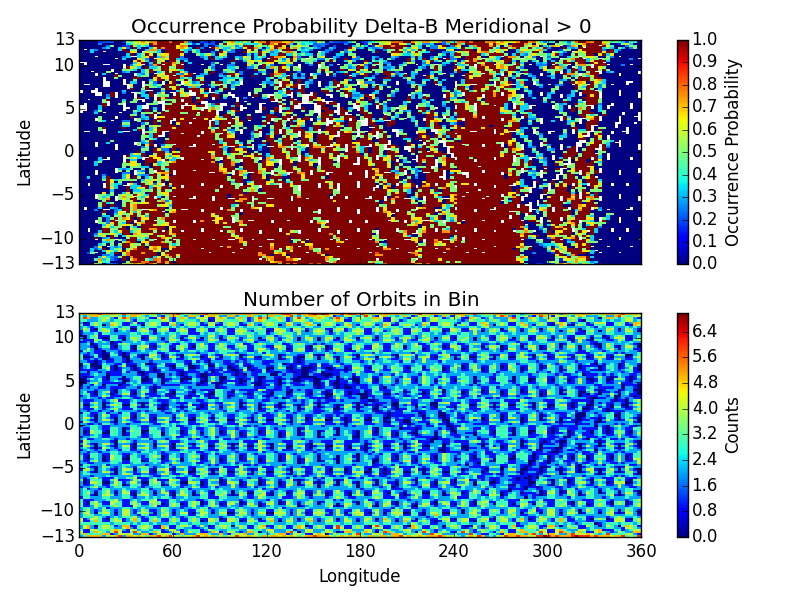
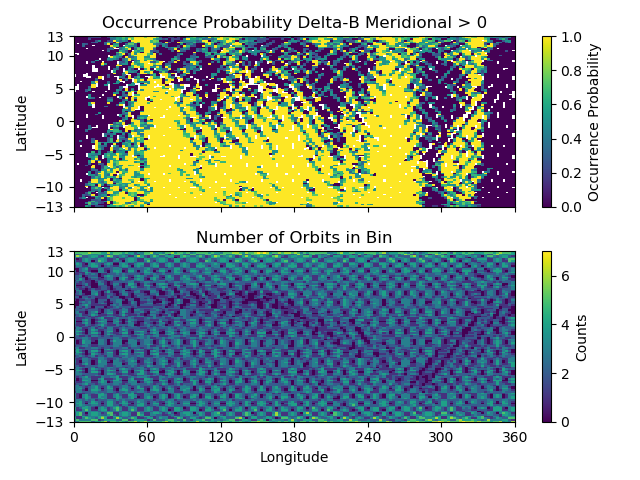
Updates to example.rst - #153

diff --git a/docs/examples.rst b/docs/examples.rst
@@ -13,7 +13,6 @@ How often does a particular thing occur on a orbit-by-orbit basis? Let's find ou
    import os
    import pysat
    import matplotlib.pyplot as plt
-   import pandas as pds
    import numpy as np
 
    # set the directory to save plots to
@@ -21,67 +20,74 @@ How often does a particular thing occur on a orbit-by-orbit basis? Let's find ou
 
    # select vefi dc magnetometer data, use longitude to determine where
    # there are changes in the orbit (local time info not in file)
-   orbit_info = {'index':'longitude', 'kind':'longitude'}
-   vefi = pysat.Instrument(platform='cnofs', name='vefi', tag='dc_b', 
+   orbit_info = {'index': 'longitude', 'kind': 'longitude'}
+   vefi = pysat.Instrument(platform='cnofs', name='vefi', tag='dc_b',
                            clean_level=None, orbit_info=orbit_info)
 
    # define function to remove flagged values
    def filter_vefi(inst):
-       idx, = np.where(vefi['B_flag']==0)
-       vefi.data = vefi.data.iloc[idx]
+       idx, = np.where(inst['B_flag'] == 0)
+       inst.data = inst.data.iloc[idx]
        return
-   # attach function to vefi 
-   vefi.custom.add(filter_vefi,'modify')
-   # set limits on dates analysis will cover, inclusive
-   start = pds.datetime(2010,5,9)
-   stop = pds.datetime(2010,5,15)
 
-   # if there is no vefi dc magnetometer data on your system 
+   # attach function to vefi
+   vefi.custom.add(filter_vefi, 'modify')
+
+   # set limits on dates analysis will cover, inclusive
+   start = pysat.datetime(2010, 5, 9)
+   stop = pysat.datetime(2010, 5, 15)
+
+   # if there is no vefi dc magnetometer data on your system
    # run command below
    # where start and stop are pandas datetimes (from above)
-   # pysat will automatically register the addition of this data at the end    
-   # of download
+   # pysat will automatically register the addition of this data
+   # at the end of download
    vefi.download(start, stop)
 
-   # leave bounds unassigned to cover the whole dataset 
-   vefi.bounds = (start,stop)
+   # leave bounds unassigned to cover the whole dataset
+   vefi.bounds = (start, stop)
 
    # perform occurrence probability calculation
    # any data added by custom functions is available within routine below
-   ans = pysat.ssnl.occur_prob.by_orbit2D(vefi, [0,360,144], 'longitude', 
-                [-13,13,104], 'latitude', ['dB_mer'], [0.], returnBins=True)
+   ans = pysat.ssnl.occur_prob.by_orbit2D(vefi,
+                                          [0, 360, 144], 'longitude',
+                                          [-13, 13, 104], 'latitude',
+                                          ['dB_mer'], [0.],
+                                          returnBins=True)
 
    # a dict indexed by data_label is returned
    # in this case, only one, we'll pull it out
    ans = ans['dB_mer']
+
    # plot occurrence probability
    f, axarr = plt.subplots(2,1, sharex=True, sharey=True)
-   masked = np.ma.array(ans['prob'], mask=np.isnan(ans['prob']))                                   
-   im=axarr[0].pcolor(ans['bin_x'], ans['bin_y'], masked)
+
+   masked = np.ma.array(ans['prob'], mask=np.isnan(ans['prob']))
+   im = axarr[0].pcolor(ans['bin_x'], ans['bin_y'], masked)
    axarr[0].set_title('Occurrence Probability Delta-B Meridional > 0')
    axarr[0].set_ylabel('Latitude')
-   axarr[0].set_yticks((-13,-10,-5,0,5,10,13))
-   axarr[0].set_ylim((ans['bin_y'][0],ans['bin_y'][-1]))
+   axarr[0].set_yticks((-13, -10, -5, 0, 5, 10, 13))
+   axarr[0].set_ylim((ans['bin_y'][0], ans['bin_y'][-1]))
    plt.colorbar(im,ax=axarr[0], label='Occurrence Probability')
 
-   im=axarr[1].pcolor(ans['bin_x'], ans['bin_y'],ans['count'])
-   axarr[1].set_xlabel('Longitude')  
-   axarr[1].set_xticks((0,60,120,180,240,300,360))
-   axarr[1].set_xlim((ans['bin_x'][0],ans['bin_x'][-1]))
-   axarr[1].set_ylabel('Latitude')
+   im = axarr[1].pcolor(ans['bin_x'], ans['bin_y'], ans['count'])
    axarr[1].set_title('Number of Orbits in Bin')
+   axarr[1].set_xlabel('Longitude')
+   axarr[1].set_xticks((0, 60, 120, 180, 240, 300, 360))
+   axarr[1].set_xlim((ans['bin_x'][0], ans['bin_x'][-1]))
+   axarr[1].set_ylabel('Latitude')
+   plt.colorbar(im, ax=axarr[1], label='Counts')
 
-   plt.colorbar(im,ax=axarr[1], label='Counts')
-   f.tight_layout()                                 
-   plt.show()
-   plt.savefig(os.path.join(results_dir,'ssnl_occurrence_by_orbit_demo') )
+   f.tight_layout()
+   plt.savefig(os.path.join(results_dir, 'ssnl_occurrence_by_orbit_demo'))
+   plt.close()
 
 Result
 
 .. image:: ./images/ssnl_occurrence_by_orbit_demo.png
    :align: center
 
-The top plot shows the occurrence probability of a positive magnetic field perturbation as a function of geographic longitude and latitude. The bottom plot shows the number of times  the satellite was in each bin with data (on per orbit basis). Individual orbit tracks may be seen. The hatched pattern is formed from the satellite traveling North to South and vice-versa. At the latitudinal extremes of the orbit the latitudinal velocity goes through zero providing a greater coverage density. The satellite doesn't return to the same locations on each pass so there is a reduction in counts between orbit tracks. All local times are covered by this plot, overrepresenting the coverage of a single satellite. 
+The top plot shows the occurrence probability of a positive magnetic field perturbation as a function of geographic longitude and latitude. The bottom plot shows the number of times  the satellite was in each bin with data (on per orbit basis). Individual orbit tracks may be seen. The hatched pattern is formed from the satellite traveling North to South and vice-versa. At the latitudinal extremes of the orbit the latitudinal velocity goes through zero providing a greater coverage density. The satellite doesn't return to the same locations on each pass so there is a reduction in counts between orbit tracks. All local times are covered by this plot, overrepresenting the coverage of a single satellite.
 
 The horizontal blue band that varies in latitude as a function of longitude is the location of the magnetic equator. Torque rod firings that help C/NOFS maintain proper attitude are performed at the magnetic equator. Data during these firings is excluded by the custom function attached to the vefi instrument object.
 
@@ -95,71 +101,70 @@ Plotting a series of orbit-by-orbit plots is a great way to become familiar with
    import os
    import pysat
    import matplotlib.pyplot as plt
-   import pandas as pds
 
    # set the directory to save plots to
    results_dir = ''
 
    # select vefi dc magnetometer data, use longitude to determine where
    # there are changes in the orbit (local time info not in file)
-   orbit_info = {'index':'longitude', 'kind':'longitude'}
-   vefi = pysat.Instrument(platform='cnofs', name='vefi', tag='dc_b', 
+   orbit_info = {'index': 'longitude', 'kind': 'longitude'}
+   vefi = pysat.Instrument(platform='cnofs', name='vefi', tag='dc_b',
                            clean_level=None, orbit_info=orbit_info)
 
    # set limits on dates analysis will cover, inclusive
-   start = pysat.datetime(2010,5,9)
-   stop = pysat.datetime(2010,5,12)
+   start = pysat.datetime(2010, 5, 9)
+   stop = pysat.datetime(2010, 5, 12)
 
    # if there is no vefi dc magnetometer data on your system
    # then run command below
    # where start and stop are pandas datetimes (from above)
-   # pysat will automatically register the addition of this data at the end 
-   # of download
+   # pysat will automatically register the addition of this
+   # data at the end of download
    vefi.download(start, stop)
 
-   # leave bounds unassigned to cover the whole dataset 
-   vefi.bounds = (start,stop)
+   # leave bounds unassigned to cover the whole dataset
+   vefi.bounds = (start, stop)
 
    for orbit_count, vefi in enumerate(vefi.orbits):
-       # for each loop pysat puts a copy of the next available 
+       # for each loop pysat puts a copy of the next available
        # orbit into   vefi.data
        # changing .data at this level does not alter other orbits
        # reloading the same orbit will erase any changes made
-    
+
        # satellite data can have time gaps, which leads to plots
-       # with erroneous lines connecting measurements on 
+       # with erroneous lines connecting measurements on
        # both sides of the gap
-       # command below fills in any data gaps using a 
+       # command below fills in any data gaps using a
        # 1-second cadence with NaNs
        # see pandas documentation for more info
-       vefi.data = vefi.data.resample('1S',  fill_method='ffill', 
-                                      limit=1, label='left' )
+       vefi.data = vefi.data.resample('1S',  fill_method='ffill',
+                                      limit=1, label='left')
 
        f, ax = plt.subplots(7, sharex=True, figsize=(8.5,11))
-    
+
        ax[0].plot(vefi['longitude'], vefi['B_flag'])
-       ax[0].set_title( vefi.data.index[0].ctime() +' - ' + 
-                        vefi.data.index[-1].ctime() )
+       ax[0].set_title(' '.join((vefi.data.index[0].ctime(),'-',
+                                 vefi.data.index[-1].ctime())))
        ax[0].set_ylabel('Interp. Flag')
-       ax[0].set_ylim((0,2))
-    
-       p_params = ['B_north', 'B_up', 'B_west', 'dB_mer',
-		   'dB_par', 'dB_zon']
-       for a,param in zip(ax[1:],p_params):	
+       ax[0].set_ylim((0, 2))
+
+       p_params = ['B_north', 'B_up', 'B_west',
+                   'dB_mer', 'dB_par', 'dB_zon']
+       for a, param in zip(ax[1:], p_params):
           a.plot(vefi['longitude'], vefi[param])
           a.set_title(vefi.meta[param].long_name)
           a.set_ylabel(vefi.meta[param].units)
-    
+
        ax[6].set_xlabel(vefi.meta['longitude'].long_name)
-       ax[6].set_xticks([0,60,120,180,240,300,360])
-       ax[6].set_xlim((0,360))   
-    
+       ax[6].set_xticks([0, 60, 120, 180, 240, 300, 360])
+       ax[6].set_xlim((0, 360))
+
        f.tight_layout()
-       fname = 'orbit_%05i.png' % orbit_count
-       plt.savefig(os.path.join(results_dir, fname) )
+       fname = 'orbit_{num:05}.png'.format(num=orbit_count)
+       plt.savefig(os.path.join(results_dir, fname))
        plt.close()
 
-Output
+Sample Output (first orbit only)
 
 .. image:: ./images/orbit_00000.png
    :align: center
@@ -169,58 +174,77 @@ Seasonal Averaging of Ion Drifts and Density Profiles
 
 In-situ measurements of the ionosphere by the Ion Velocity Meter onboard C/NOFS provides information on plasma density, composition, ion temperature, and ion drifts. This provides a great deal of information on the ionosphere though this information is limited to the immediate vicinity of the satellite. COSMIC GPS measurements, with some processing, provide information on the vertical electron density distribution in the ionosphere. The vertical motion of ions measured by IVM should be reflected in the vertical plasma densities measured by COSMIC. To look at this relationship over all longitudes and local times, for magnetic latitudes near the geomagnetic equator, use the code below:
 
-Note the same averaging routine is used for both COSMIC and IVM, and that both 1D and 2D data are handled correctly. 
+Note the same averaging routine is used for both COSMIC and IVM, and that both 1D and 2D data are handled correctly.
 
 .. code:: python
 
-   # instantiate IVM Object
-   ivm = pysat.Instrument(platform='cnofs',name='ivm',clean_level='clean')
-   # restrict meausurements to those near geomagnetic equator
+   # create IVM Object
+   ivm = pysat.Instrument(platform='cnofs', name='ivm', clean_level='clean')
+
+   # define function to restrict magnetic latitude
+   def restrictMLAT(inst, maxMLAT):
+       idx, = np.where(np.abs(inst['mlat']) <= maxMLAT)
+       inst.data = inst.data.iloc[idx]
+       return
+
+   # restrict measurements to those near geomagnetic equator
    ivm.custom.add(restrictMLAT, 'modify', maxMLAT=25.)
+
    # perform seasonal average
-   ivm.bounds(startDate, stopDate)
-   ivmResults = pysat.ssnl.avg.median2D(ivm, [0,360,24], 'apex_long', 		                      
-                     [0,24,24], 'mlt', ['iv_mer'])
+   startDate = pysat.datetime(2009, 6, 1)
+   stopDate = pysat.datetime(2009, 8, 31)
+   ivm.bounds = (startDate, stopDate)
+   ivmResults = pysat.ssnl.avg.median2D(ivm,
+                                        [0, 360, 24], 'apex_long',
+                                        [0, 24, 24], 'mlt',
+                                        ['iv_mer'])
 
    # create CODMIC instrument object
-   cosmic = pysat.Instrument(platform='cosmic2013', name='gps',tag='ionprf',
-		clean_level='clean', altitude_bin=3)
+   cosmic = pysat.Instrument(platform='cosmic2013', name='gps', tag='ionprf',
+		                         clean_level='clean', altitude_bin=3)
+
    # apply custom functions to all data that is loaded through cosmic
    cosmic.custom.add(addApexLong, 'add')
+
    # select locations near the magnetic equator
-   cosmic.custom.add(filterMLAT, 'modify', mlatRange=(0.,10.) )
+   cosmic.custom.add(filterMLAT, 'modify', mlatRange=(0., 10.))
+
    # take the log of NmF2 and add to the dataframe
    cosmic.custom.add(addlogNm, 'add')
+
    # calculates the height above hmF2 to reach Ne < NmF2/e
    cosmic.custom.add(addTopsideScaleHeight, 'add')
 
-   # do an average of multiple COSMIC data products from startDate through stopDate
-   # a mixture of 1D and 2D data is averaged
+   # do an average of multiple COSMIC data products from startDate
+   # through stopDate
+   # Note that a mixture of 1D and 2D data is averaged
    cosmic.bounds(startDate, stopDate)
-   cosmicResults = pysat.ssnl.avg.median2D(cosmic, [0,360,24], 'apex_long', 
-	  [0,24,24],'edmaxlct', ['profiles', 'edmaxalt', 'lognm', 'thf2'])
+   cosmicResults = pysat.ssnl.avg.median2D(cosmic, [0,360,24], 'apex_long',
+	                                         [0,24,24],'edmaxlct',
+                                           ['profiles', 'edmaxalt',
+                                            'lognm', 'thf2'])
 
    # the work is done, plot the results
 
 .. image:: ./images/ssnl_median_ivm_cosmic_1d.png
    :align: center
 
-The top image is the median ion drift from the IVM, while the remaining plots are derived from the COSMIC density profiles. COSMIC data does not come with the location of the profiles in magnetic coordinates, so this information is added using the nano-kernel. 
+The top image is the median ion drift from the IVM, while the remaining plots are derived from the COSMIC density profiles. COSMIC data does not come with the location of the profiles in magnetic coordinates, so this information is added using the nano-kernel.
 
 .. code:: python
-    
+
    cosmic.custom.add(addApexLong, 'add')
 
 call runs a routine that adds the needed information. This routine is currently only using a simple titled dipole model.
-Similarly, using custom functions, locations away from the magnetic equator are filtered out and a couple new quantities are added. 
+Similarly, using custom functions, locations away from the magnetic equator are filtered out and a couple new quantities are added.
 
 There is a strong correspondence between the distribution of downward drifts between noon and midnight and a reduction in the height of the peak ionospheric density around local sunset. There isn't the same strong correspondence with the other parameters but ion density profiles are also affected by production and loss processes, not measured by IVM.
-   
-The median averaging routine also produced a series a median altitude profiles as a function of longitude and local time. A selection are shown below. 
+
+The median averaging routine also produced a series a median altitude profiles as a function of longitude and local time. A selection are shown below.
 
 .. image:: ./images/ssnl_median_ivm_cosmic_2d.png
    :align: center
 
-There is a gradient in the altitude distribution over longitude near sunset. Between 0-15 longitude an upward slope is seen in bottom-side density levels with local time though higher altitudes have a flatter gradient. This is consistent with the upward ion drifts reported by IVM. Between 45-60 the bottom-side ionosphere is flat with local time, while densities at higher altitudes drop steadily. Ion drifts in this sector become downward at night. Downward drifts lower plasma into exponentially higher neutral densities, rapidly neutralizing plasma and producing an effective flat bottom. Thus, the COSMIC profile in this sector is also consistent with the IVM drifts. 
+There is a gradient in the altitude distribution over longitude near sunset. Between 0-15 longitude an upward slope is seen in bottom-side density levels with local time though higher altitudes have a flatter gradient. This is consistent with the upward ion drifts reported by IVM. Between 45-60 the bottom-side ionosphere is flat with local time, while densities at higher altitudes drop steadily. Ion drifts in this sector become downward at night. Downward drifts lower plasma into exponentially higher neutral densities, rapidly neutralizing plasma and producing an effective flat bottom. Thus, the COSMIC profile in this sector is also consistent with the IVM drifts.
 
 Between 15-30 degrees longitude, ion drifts are upward, but less than the 0-15 sector. Similarly, the density profile in the same sector has a weaker upward gradient with local time than the 0-15 sector.  Between 30-45 longitude, drifts are mixed, then transition into weaker downward drifts than between 45-60 longitude. The corresponding profiles have a flatter bottom-side gradient than sectors with upward drift (0-30), and a flatter top-side gradient than when drifts are more downward (45-60), consistent with the ion drifts.
